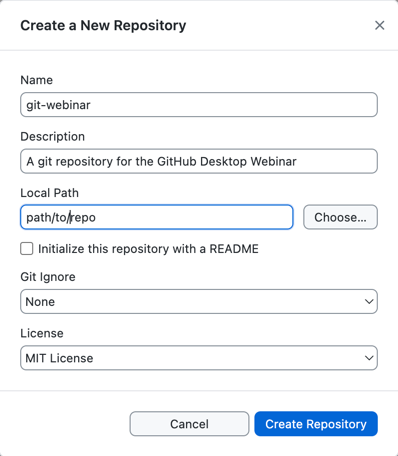
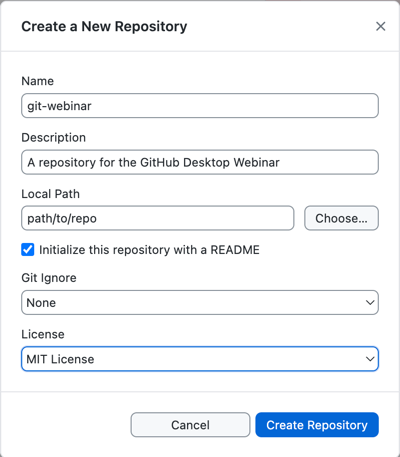
Add alternative method for init repo
Add a method to create a repo on GitHub directly and clone as alternative method

diff --git a/tutorials/git/03-init-repo.md b/tutorials/git/03-init-repo.md
@@ -5,6 +5,7 @@
 1. [Create a New Repository](#create-a-new-repository)
 1. [Fill in Repository Details](#fill-in-repository-details)
 1. [Verify the Repository](#verify-the-repository)
+1. [Alternative Method: Create a Repository Directly on GitHub and Clone it to GitHub Desktop](#alternative-method-create-a-repository-directly-on-github-and-clone-it-to-github-desktop)
 
 ## Create a New Repository
 
@@ -15,8 +16,8 @@
 
 ## Fill in Repository Details
 
-1. **Name**: Enter a name for your repository.
-2. **Description**: Optionally, enter a description for your repository.
+1. **Name**: Enter a name for your repository, this tutorial will use `git-webinar`.
+2. **Description**: Optionally, enter a description for your repository, for example, `"A repository for the GitHub Desktop Webinar"`.
 3. **Local Path**: Choose a location on your computer where the repository will be created.
 4. **Initialize this repository with a README**: Check this box to include a blank README file in the repository. If it is recommended to include a README file in a repository, as it provides information about the project and helps others understand its purpose, especially public repositories. But you can always add a README file later manually if you prefer.
   - Leave this box unchecked for this tutorial.
@@ -32,3 +33,23 @@ Click the `Create repository` button. GitHub Desktop will create the repository 
 After creating the repository, you will be taken to the repository view in GitHub Desktop. You should see the current status of the repository, and the files that are part of the repository (which should be empty if you did not add any files yet).
 
 ![Image: new repository desktop overview](fig/desktop-overview.png)
+
+
+## Alternative Method: Create a Repository Directly on GitHub and Clone it to GitHub Desktop
+
+If you prefer to create a repository directly on GitHub's website, you can follow these steps:
+
+1. Go to your account on [GitHub](https://github.com)
+2. Click on the `+` icon in the top right corner and select `New repository`.
+
+![Image: location on Github of where to create a new repo](fig/github-new-repo-location.png)
+
+3. Fill in the repository details (name, description, public/private, etc.). and click `Create repository`.
+
+![Image: new repo details](fig/github-new-repo.png)
+
+4. In GitHub Desktop, click on the `File` menu in the top left corner and click on `Clone repository...` or click the Add button and select `Clone repository...`.
+
+5. Select the repository you just created on GitHub and choose a local path to clone the repository to your computer. Click `Clone`.
+
+![Image: Github desktop cloning menu to clone a repo](fig/desktop-clone-self-repo.png)
